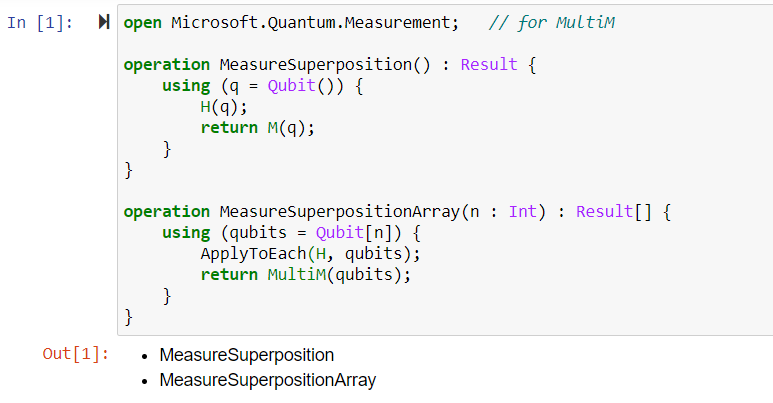
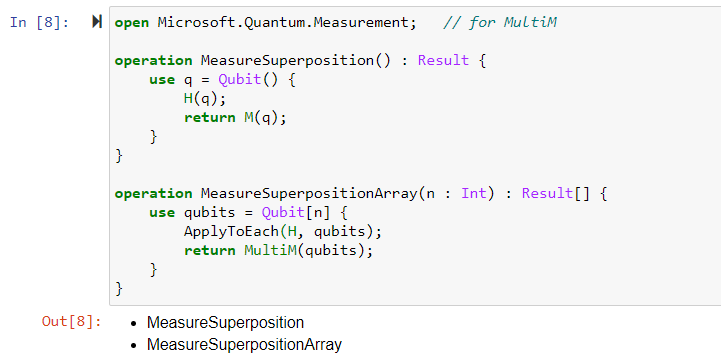
update screenshot

diff --git a/articles/user-guide/host-programs.md b/articles/user-guide/host-programs.md
@@ -628,7 +628,7 @@ Upon running a cell with such a statement, the definitions from those namespaces
 
 Similarly, defining operations requires only writing the Q# code and running the cell.
 
-<img src="~/media/hostprograms_jupyter_op_def_crop.png" alt="Jupyter cell defining Q# operations" width="773">
+<img src="~/media/hostprograms_jupyter_op_def_crop.png" alt="Jupyter cell defining Q# operations" width="721">
 
 The output then lists those operations, which can then be called from future cells.
 
